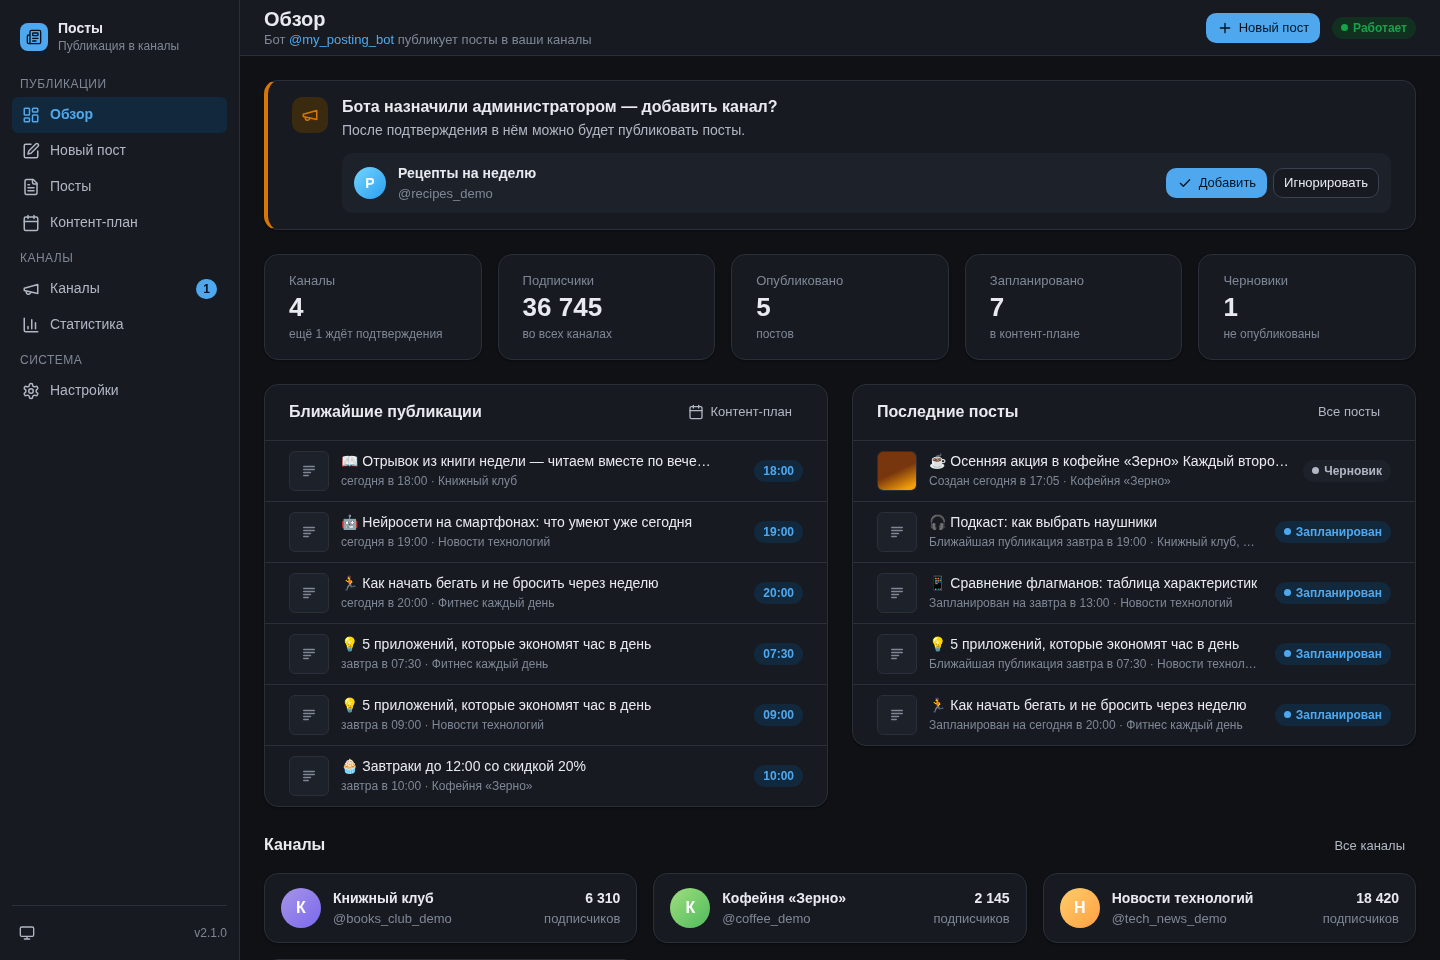
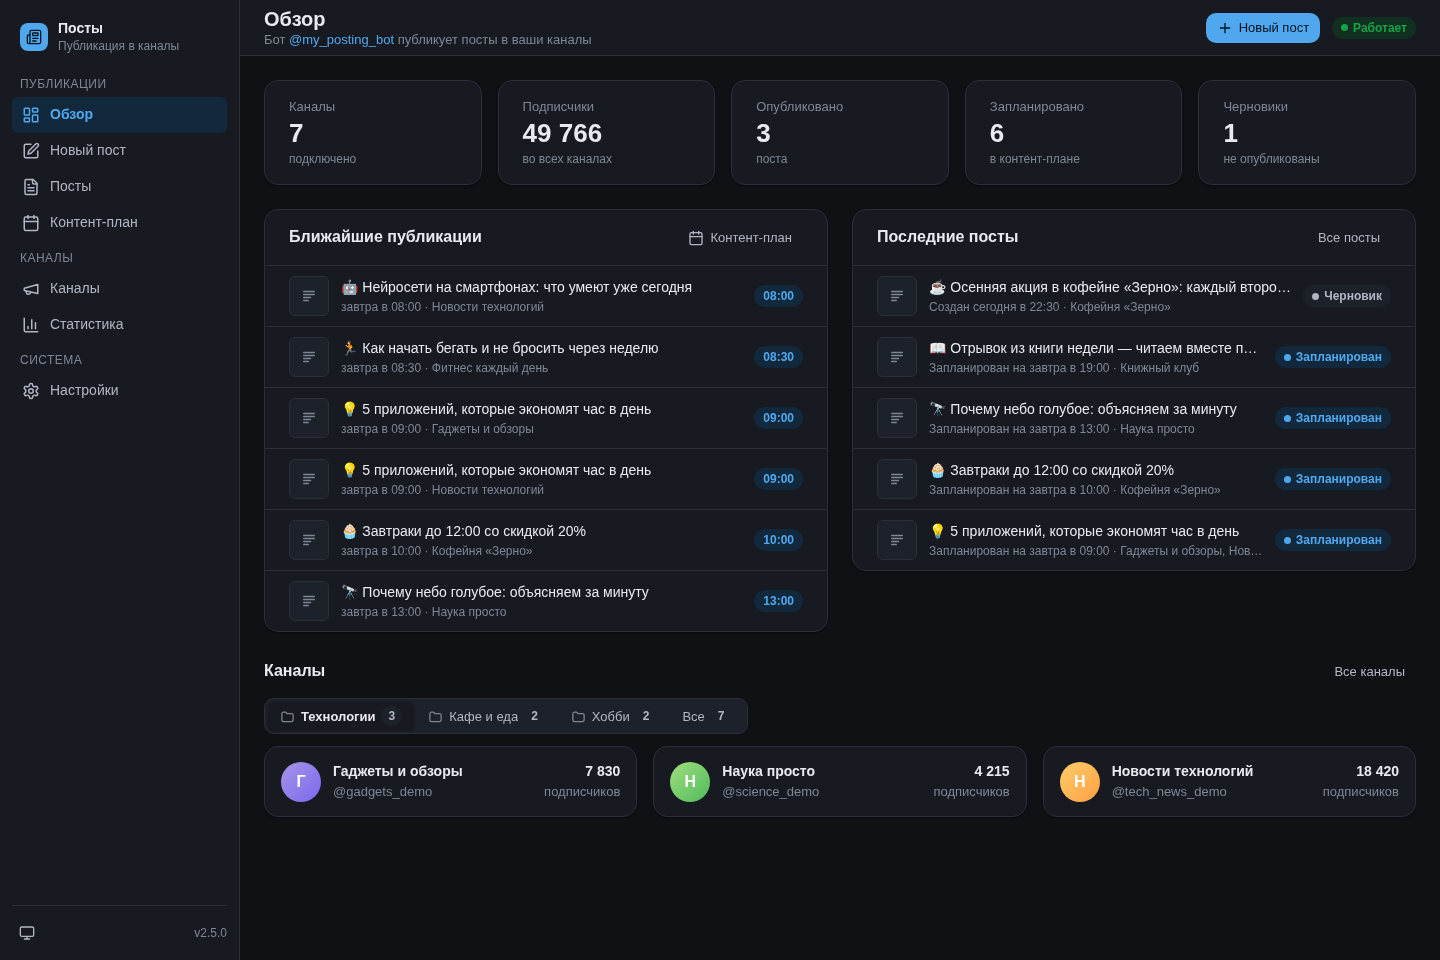
Версия 2.5.0

diff --git a/tests/test_config.py b/tests/test_config.py
@@ -48,7 +48,7 @@ def test_normalize_hub_url_rejects(raw):
 def test_config_defaults_and_version():
     cfg = Config(bot_token="1:x")
     assert cfg.web_prefix == "" and cfg.hub_url is None
-    assert cfg.version == app.__version__ == "2.4.0"
+    assert cfg.version == app.__version__ == "2.5.0"
     assert cfg.web_url == "http://127.0.0.1:8080/"
 
 
@@ -108,7 +108,7 @@ def test_load_config_new_variables(env):
     assert cfg.web_prefix == "/posts" and cfg.hub_url == "/"
     assert cfg.web_password == "env-secret-1"
     assert cfg.web_url == "http://127.0.0.1:8095/posts/"
-    assert cfg.version == "2.4.0"
+    assert cfg.version == "2.5.0"
     assert Path(cfg.uploads_dir).is_dir()
 
 

diff --git a/app/__init__.py b/app/__init__.py
@@ -1,3 +1,3 @@
 """Telegram bot and web panel for preparing and publishing posts to your channels."""
 
-__version__ = "2.4.0"
+__version__ = "2.5.0"

diff --git a/README.md b/README.md
@@ -504,7 +504,7 @@ scp root@IP_ВАШЕГО_СЕРВЕРА:/root/backups/bot-*.db .
 
 | Раздел | Что там |
 |---|---|
-| **Обзор** | Каналы, подписчики, опубликовано и запланировано; каналы, ожидающие подтверждения; последние посты. |
+| **Обзор** | Подписчики, опубликовано и запланировано; каналы, ожидающие подтверждения; ближайшие публикации и последние посты; каналы по папкам (переключатель папок, выбор запоминается). |
 | **Новый пост** | Редактор: Markdown с панелью форматирования, загрузка медиа (перетаскиванием или вставкой из буфера), альбомы, редактор цветных кнопок, выбор каналов по папкам, опции и три режима публикации. Справа — живой предпросмотр «как в Telegram». «Отправить мне превью» присылает пост вам в бота. |
 | **Посты** | Запланированные, опубликованные, черновики: редактирование (в том числе уже опубликованных — изменения применятся во всех каналах), публикация сейчас, отмена расписания, удаление из каналов, дублирование. |
 | **Контент-план** | По каналу: дни, слоты, посты в слотах; перетаскивание поста в другой слот, «раньше / позже», «перенести», «опубликовать сейчас», «убрать из плана»; клик по свободному слоту — новый пост на это время. «Все каналы» — общая лента публикаций. |
